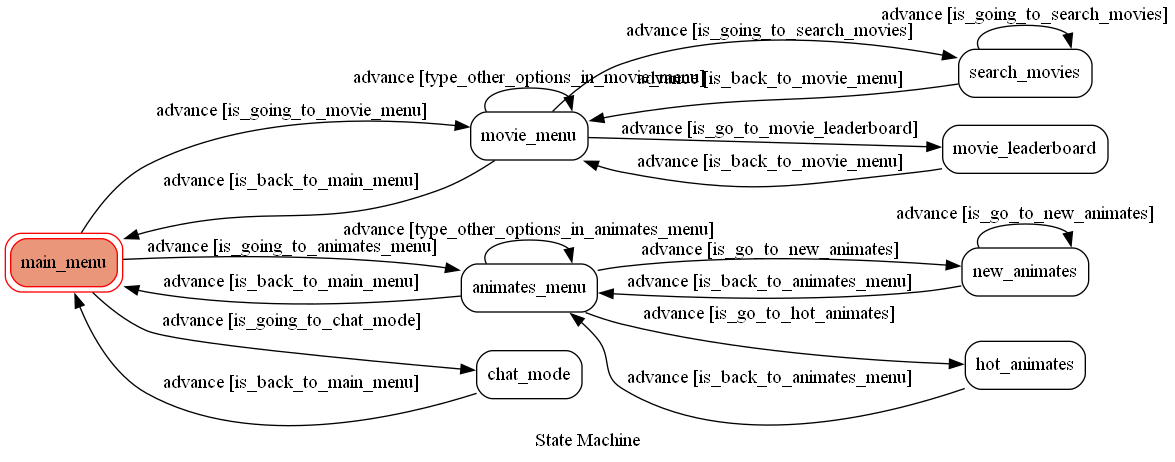
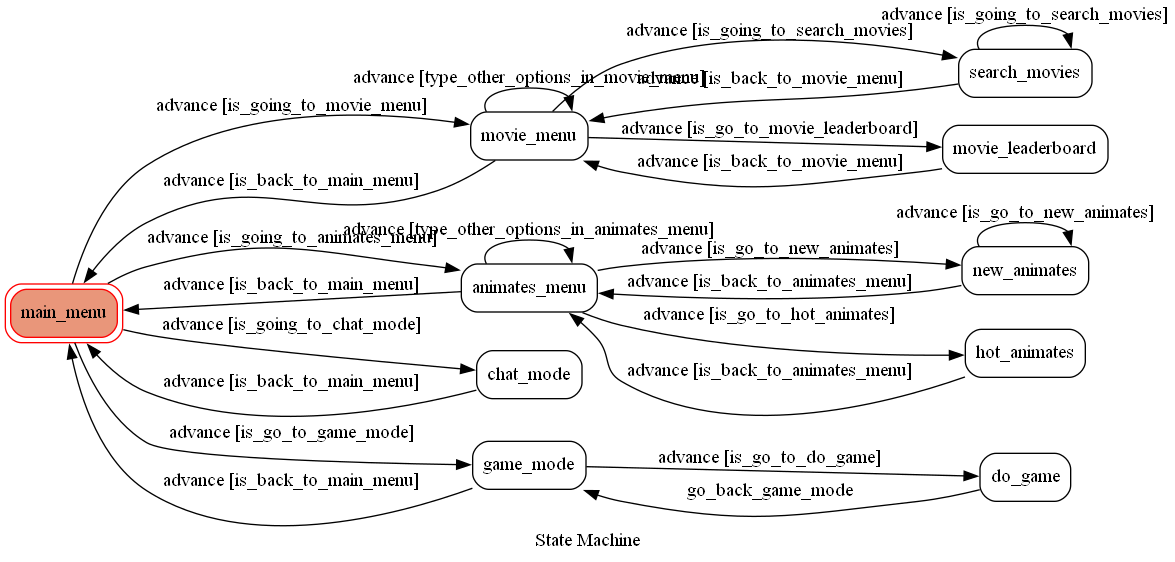
add new state

Changed region(s): [[0.0, 0.0, 1.0, 0.9394], [0.4596, 0.9394, 0.5515, 0.9697]]

diff --git a/fsm.py b/fsm.py
@@ -3,7 +3,7 @@ from linebot.models import MessageAction,MessageEvent, TextMessage, TextSendMess
 from linebot.models import PostbackAction,URIAction, CarouselColumn,ImageCarouselColumn, URITemplateAction, MessageTemplateAction
 from spider import SearchMovies, show_hot_movies, search_animations, show_hot_animates
 
-from utils import send_text_message, send_button_message, send_carousel_message
+from utils import send_text_message, send_button_message, send_carousel_message, do_game
 
 search_movies = ['現在熱映電影', '即將上映電影']
 movie_menu_options = ['現在熱映電影', '即將上映電影', '台灣票房榜', '返回主目錄']
@@ -56,6 +56,10 @@ class TocMachine(GraphMachine):
         text = event.message.text
         return text == "本季新作"
 
+    def is_go_to_game_mode(self, event):
+        text = event.message.text
+        return text == "遊戲模式"
+
     def is_back_to_animates_menu(self, event):
         text = event.message.text
         return text == "返回動畫目錄"
@@ -70,7 +74,7 @@ class TocMachine(GraphMachine):
 
     def on_enter_main_menu(self, event):
         reply_token = event.reply_token
-        text = '已返回主目錄:\n請使用底下的主目錄選單選擇: "電影目錄" "動畫目錄" 或 "聊天模式"'
+        text = '已返回主目錄:\n請使用底下的主目錄選單選擇: "電影目錄" "動畫目錄" "聊天模式" "遊戲模式" 或 輸入 "show fsm" 顯示 FSM 圖'
         send_text_message(reply_token, text)
 
     def on_enter_chat_mode(self, event):
@@ -291,3 +295,36 @@ class TocMachine(GraphMachine):
             col.append(carousel_data)
 
         send_carousel_message(reply_token, col)
+    
+    def on_enter_game_mode(self, event):
+        reply_token = event.reply_token
+        title = "歡迎來到猜拳小遊戲\n請輸入'剪刀' '石頭' '布' 來進行猜拳"
+        text = '下方選擇您要出的拳'
+        btn = [
+            MessageTemplateAction(
+                label = '剪刀',
+                text ='剪刀'
+            ),
+            MessageTemplateAction(
+                label = '石頭',
+                text = '石頭'
+            ),
+            MessageTemplateAction(
+                label = '布',
+                text = '布'
+            ),
+            MessageTemplateAction(
+                label = '返回主目錄',
+                text = '返回主目錄'
+            )
+        ]
+        url = 'https://pic.616pic.com/ys_img/01/04/01/V8S3VobDbt.jpg'
+        send_button_message(event.reply_token, title, text, btn, url)
+
+    def is_go_to_do_game(self, event):
+        text = event.message.text
+        return text == '石頭' or text == '剪刀' or text == '布'
+
+    def on_enter_do_game(self, event):
+        do_game(event, event.message.text)
+        self.go_back_game_mode(event)

diff --git a/app.py b/app.py
@@ -16,8 +16,6 @@ main_url = 'https://movieseekerbot.onrender.com'
 
 machine_list = {}
 
-
-
 app = Flask(__name__, static_url_path="")
 load_dotenv()
 
@@ -62,7 +60,7 @@ def webhook_handler():
             states=["main_menu",
                     "movie_menu", "search_movies", "movie_leaderboard",
                     "animates_menu", "new_animates", "hot_animates",
-                    "chat_mode"],
+                    "chat_mode", "game_mode", "do_game"],
             transitions=[
                 {
                     "trigger": "advance",
@@ -156,6 +154,25 @@ def webhook_handler():
                     "source": "chat_mode",
                     "dest": "main_menu",
                     "conditions": "is_back_to_main_menu",
+                },{
+                    "trigger": "advance",
+                    "source": "main_menu",
+                    "dest": "game_mode",
+                    "conditions": "is_go_to_game_mode",
+                },{
+                    "trigger": "advance",
+                    "source": "game_mode",
+                    "dest": "main_menu",
+                    "conditions": "is_back_to_main_menu",
+                },{
+                    "trigger": "advance",
+                    "source": "game_mode",
+                    "dest": "do_game",
+                    "conditions": "is_go_to_do_game",
+                },{
+                    "trigger": "go_back_game_mode",
+                    "source": "do_game",
+                    "dest": "game_mode",
                 }
             ],
             initial="main_menu",
@@ -171,7 +188,7 @@ def webhook_handler():
         elif machine_list[event.source.user_id].state == 'chat_mode' and event.message.text != '返回主目錄':
             text = call_openai(event)
         elif machine_list[event.source.user_id].state == 'main_menu':
-            text = '請使用底下的主目錄選單選擇:\n"電影目錄" "動畫目錄" "聊天模式" 或是輸入 "show fsm" 顯示 FSM 圖'
+            text = '請使用底下的主目錄選單選擇:\n"電影目錄" "動畫目錄" "聊天模式" "遊戲模式"或是輸入 "show fsm" 顯示 FSM 圖'
         elif machine_list[event.source.user_id].state == 'search_movies':
             text = '請點選 "點我要搜尋其他的" 或 "返回電影目錄"'
         elif machine_list[event.source.user_id].state == 'movie_leaderboard':
@@ -190,7 +207,7 @@ def webhook_handler():
 
 @app.route("/show-fsm", methods=["GET"])
 def show_fsm():
-    # machine_list[event.source.user_id].get_graph().draw("fsm.png", prog="dot", format="png")
+    # machine.get_graph().draw("fsm.png", prog="dot", format="png")
     return send_file("fsm.png", mimetype="image/png")
 
 

diff --git a/utils.py b/utils.py
@@ -5,6 +5,7 @@ from linebot import LineBotApi, WebhookParser
 from linebot.models import VideoSendMessage,MessageEvent, TextMessage, TextSendMessage, TemplateSendMessage, ImageCarouselColumn,CarouselTemplate, ImageCarouselTemplate, URITemplateAction, ButtonsTemplate, MessageTemplateAction, ImageSendMessage
 from linebot.models import ImageCarouselColumn, URITemplateAction, MessageTemplateAction
 import openai
+import random
 
 channel_access_token = os.getenv("LINE_CHANNEL_ACCESS_TOKEN", None)
 
@@ -87,3 +88,32 @@ def call_openai(event):
     completed_text = response["choices"][0]["text"].replace('\n', '')
     
     return completed_text   
+
+
+def do_game(event, text):
+    if text == '石頭':
+        ran = random.randint(1, 3)
+        if (ran == 2):
+            send_text_message(event.reply_token, '剪刀\n你贏了!')
+        elif (ran == 3):
+            send_text_message(event.reply_token, '布\n我贏了!')
+        else:
+            send_text_message(event.reply_token, '石頭\n平手')
+    elif text == '剪刀':
+        ran = random.randint(1, 3)
+        if (ran == 3):
+            send_text_message(event.reply_token, '布\n你贏了!')
+        elif (ran == 1):
+            send_text_message(event.reply_token, '石頭\n我贏了!')
+        else:
+            send_text_message(event.reply_token, '剪刀\n平手')
+    elif text == '布':
+        ran = random.randint(1, 3)
+        if (ran == 1):
+            send_text_message(event.reply_token, '石頭\n你贏了!')
+        elif (ran == 2):
+            send_text_message(event.reply_token, '剪刀\n我贏了!')
+        else:
+            send_text_message(event.reply_token, '布\n平手')
+    
+    return True
